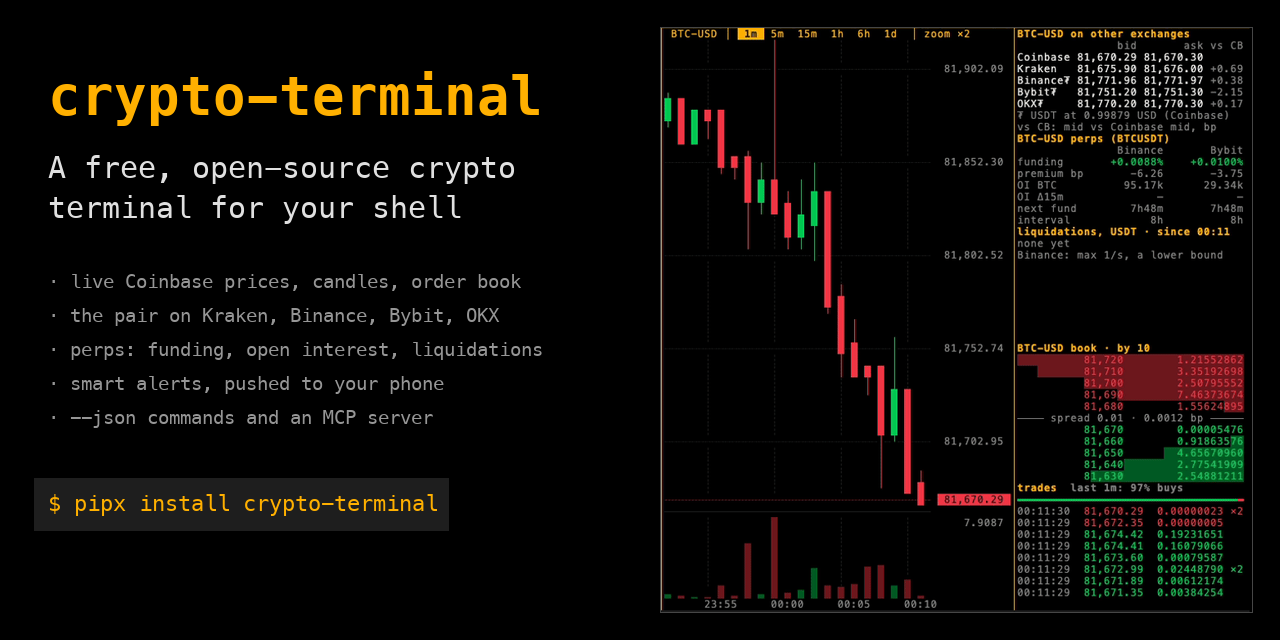
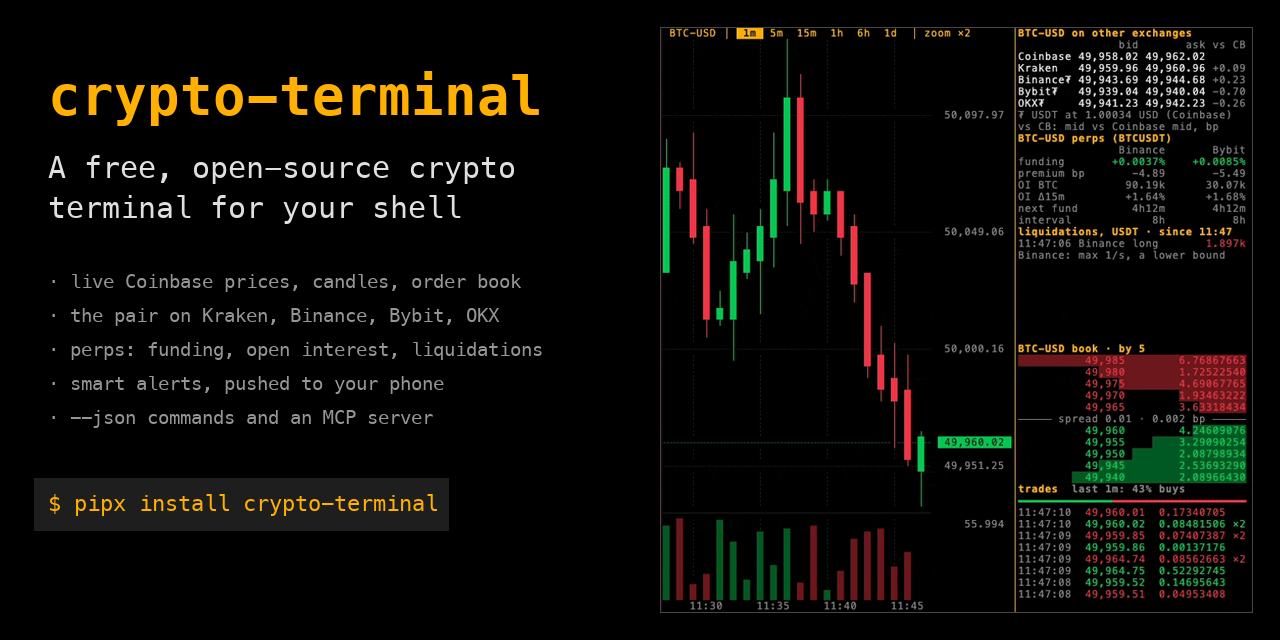
Record the demo, preview and README examples on made-up data
Coinbase's Market Data Terms (and the other exchanges' terms) don't allow
showing their market data, or charts made from it, to third parties. The
README GIF, social preview and sample outputs showed real prices.

docs/demo_offline.py runs the app on a seeded random walk (BTC near
50,000), fed through the real book/venue/perp parsers in each exchange's
message format, with sockets blocked so nothing touches the network; the
title bar says DEMO DATA. demo.tape now records that. The README examples
use matching made-up numbers and say so.

Changed region(s): [[0.5, 0.0312, 1.0, 0.9375], [0.5, 0.8125, 0.75, 0.9688]]

diff --git a/docs/demo_offline.py b/docs/demo_offline.py
@@ -1,0 +1,270 @@
+"""Run the terminal on made-up data, for recording the README demo (`vhs docs/demo.tape`).
+
+Exchange data terms don't allow showing their market data to other people, so the public GIF and screenshots use
+this instead: a seeded random walk per pair, fed through the app's real parsers in each exchange's message format.
+Nothing here touches the network (sockets refuse to connect). Not part of the package.
+"""
+
+import asyncio
+import random
+import socket
+import time
+from datetime import datetime, timezone
+
+from textual.widgets import Static
+
+
+BLOCKED = []  # connection attempts refused (there should be none)
+
+
+def no_network(*args, **kwargs):
+    BLOCKED.append(args[1:] or kwargs)
+    raise RuntimeError("demo: network is blocked")
+
+
+socket.socket.connect = socket.socket.connect_ex = no_network  # before anything can open a connection
+socket.create_connection = no_network
+
+from crypto_terminal import app as app_module  # noqa: E402
+from crypto_terminal.book import BookFeed  # noqa: E402
+from crypto_terminal.derivs import OI_WINDOW, BinancePerp, BybitPerp  # noqa: E402
+from crypto_terminal.feed import Tick  # noqa: E402
+from crypto_terminal.history import MAX_CANDLES, Candle, Product  # noqa: E402
+from crypto_terminal.venues import OKX, Binance, Bybit, Kraken  # noqa: E402
+
+rng = random.Random(7)
+# base: (made-up USD price, price step, coin name)
+COINS = {"BTC": (50_000.0, 0.01, "Bitcoin"), "ETH": (2_600.0, 0.01, "Ethereum"), "XRP": (0.62, 0.0001, "XRP"),
+         "SOL": (120.0, 0.01, "Solana"), "ADA": (0.45, 0.0001, "Cardano"), "DOGE": (0.12, 0.00001, "Dogecoin"),
+         "USDT": (1.0003, 0.00001, "Tether")}
+EUR, USDT = 0.92, 1.0003
+PRODUCTS = [Product(f"{base}-{quote}", base, quote, name) for base, (_, _, name) in COINS.items()
+            for quote in ("USD", "EUR", "BTC") if base != quote and not (base == "USDT" and quote != "USD")]
+
+
+class Pair:
+    def __init__(self, symbol):
+        base, _, quote = symbol.partition("-")
+        usd, self.step, _ = COINS.get(base, (1.0, 0.0001, base))
+        scale = {"USD": 1, "EUR": EUR, "BTC": 1 / COINS["BTC"][0]}[quote]
+        self.step = self.step if quote != "BTC" else 1e-8
+        self.mid = usd * scale
+        self.vol = 0.000005 if base == "USDT" else 0.0001  # per step
+        self.open_24h = self.mid * (1 + rng.uniform(-0.04, 0.03))
+
+    def move(self):
+        self.mid *= 1 + rng.gauss(0, self.vol)
+        return self.mid
+
+    def round(self, price):
+        return round(round(price / self.step) * self.step, 10)
+
+    def text(self, price):
+        decimals = max(0, len(f"{self.step:.10f}".rstrip("0").split(".")[1]))
+        return f"{self.round(price):.{decimals}f}"
+
+
+PAIRS: dict[str, Pair] = {}
+
+
+def pair(symbol) -> Pair:
+    if symbol not in PAIRS:
+        PAIRS[symbol] = Pair(symbol)
+    return PAIRS[symbol]
+
+
+def usd_mid(symbol) -> float:
+    """Mid in USD (for venues/perps), from the USD pair's walk."""
+    return pair(symbol.split("-")[0] + "-USD").mid
+
+
+async def tick_forever():
+    while True:
+        for p in list(PAIRS.values()):
+            p.move()
+        await asyncio.sleep(0.3)
+
+
+class DemoFeed:
+    def __init__(self, symbols, on_tick, on_status, trade_symbols=(), on_trade=None, **kwargs):
+        self.symbols, self.on_tick, self.on_status, self.last_msg = list(symbols), on_tick, on_status, 0.0
+
+    async def run(self):
+        self.on_status("live")
+        while True:
+            self.last_msg = time.monotonic()
+            for symbol in self.symbols:
+                p = pair(symbol)
+                half = max(p.step, p.mid * 0.00004)
+                self.on_tick(Tick(symbol, p.round(p.mid), p.open_24h, p.round(p.mid - half), p.round(p.mid + half)))
+            await asyncio.sleep(0.3)
+
+
+class DemoBookFeed(BookFeed):
+    async def run(self):
+        p, trade_id = pair(self.symbol), 1_000_000
+        unit = 50_000 / usd_mid(self.symbol)  # sizes: about the same dollar amounts on every pair
+        gap = max(p.step, p.round(p.mid * 0.00002))  # about 0.2 bp between levels
+        offsets = [0]
+        for _ in range(59):
+            offsets.append(offsets[-1] + gap * rng.choice((1, 1, 1, 2, 3)))
+        sizes = {side: [rng.expovariate(1 / 1.2) * unit for _ in offsets] for side in ("bids", "asks")}
+        self.last_msg = time.monotonic()
+        self._status("live")
+        while True:
+            self.last_msg = time.monotonic()
+            best_bid = p.round(p.mid - p.step / 2)
+            for side in sizes.values():
+                for i in range(len(side)):
+                    if rng.random() < 0.15:
+                        side[i] = rng.expovariate(1 / 1.2) * unit
+            self.handle({"type": "snapshot", "product_id": self.symbol,
+                         "bids": [[p.text(best_bid - o), f"{s:.8f}"] for o, s in zip(offsets, sizes["bids"])],
+                         "asks": [[p.text(best_bid + p.step + o), f"{s:.8f}"] for o, s in zip(offsets, sizes["asks"])]})
+            now = datetime.now(timezone.utc).strftime("%Y-%m-%dT%H:%M:%S.%fZ")
+            for _ in range(rng.randint(0, 3)):
+                trade_id += 1
+                buy = rng.random() < 0.55
+                self.handle({"type": "match", "product_id": self.symbol, "trade_id": trade_id, "time": now,
+                             "side": "sell" if buy else "buy", "price": p.text(best_bid + (p.step if buy else 0)),
+                             "size": f"{rng.expovariate(1 / 0.08) * unit:.8f}", "taker_order_id": f"t{trade_id}"})
+            await asyncio.sleep(0.4)
+
+
+def demo_venue(cls, offset_bp, message):
+    class Demo(cls):
+        def __init__(self, symbol, url=None):
+            self.coinbase_symbol = symbol
+            super().__init__(symbol, url)
+
+        async def run(self):
+            if not self.pair:
+                self._status("not listed")
+                return
+            self.last_msg = time.monotonic()
+            self._status("live")
+            while True:
+                self.last_msg = time.monotonic()
+                mid = usd_mid(self.coinbase_symbol)
+                mid = mid * (1 + (offset_bp + rng.gauss(0, 0.4)) / 10_000) / (USDT if self.USD_IN_STABLE else 1)
+                spread = mid * 0.00001
+                self.handle(message(self.pair, f"{mid - spread:.2f}", f"{mid + spread:.2f}"))
+                await asyncio.sleep(0.5)
+    Demo.NAME = cls.NAME
+    return Demo
+
+
+VENUES = (
+    demo_venue(Kraken, 0.6, lambda s, b, a: {"channel": "ticker",
+                                            "data": [{"symbol": s, "bid": float(b), "ask": float(a)}]}),
+    demo_venue(Binance, 0.8, lambda s, b, a: {"s": s, "b": b, "a": a}),
+    demo_venue(Bybit, 0.3, lambda s, b, a: {"topic": f"orderbook.1.{s}", "type": "snapshot",
+                                           "data": {"b": [[b, "1"]], "a": [[a, "1"]]}}),
+    demo_venue(OKX, 0.2, lambda s, b, a: {"arg": {"instId": s}, "data": [{"bids": [[b, "1"]], "asks": [[a, "1"]]}]}),
+)
+
+
+def demo_perp(cls, oi_coins):
+    class Demo(cls):
+        async def run(self):
+            if not self.pair:
+                self._status("no USDT perp")
+                return
+            self.last_msg = time.monotonic()
+            self._status("live")
+            self.interval = 8
+            oi = oi_coins * 50_000 / usd_mid(self.symbol)
+            self.oi_samples.append((time.monotonic() - OI_WINDOW - 30, oi * 0.985))  # so OI Δ15m shows
+            funding = rng.uniform(0.00002, 0.00009)
+            next_ms = (int(time.time()) // 28_800 + 1) * 28_800_000
+            while True:
+                self.last_msg = time.monotonic()
+                index = usd_mid(self.symbol) / USDT
+                mark = index * (1 - rng.uniform(2, 6) / 10_000)
+                funding += rng.gauss(0, 0.000002)
+                oi *= 1 + rng.gauss(0.0002, 0.0005)
+                self.feed_numbers(mark, index, funding, next_ms, oi)
+                if rng.random() < 0.12:
+                    size = round(rng.expovariate(1 / 0.6) * 50_000 / index, 3) or 0.001
+                    self.feed_liq(int(time.time() * 1000), rng.random() < 0.6, size, mark)
+                await asyncio.sleep(1)
+    return Demo
+
+
+class DemoBinancePerp(demo_perp(BinancePerp, 90_000)):
+    def feed_numbers(self, mark, index, funding, next_ms, oi):
+        self.handle({"e": "markPriceUpdate", "s": self.pair, "p": f"{mark:.2f}", "i": f"{index:.2f}",
+                     "r": f"{funding:.8f}", "T": next_ms})
+        self.add_oi(oi)  # Binance's open interest comes from a REST poll in the real feed
+
+    def feed_liq(self, ms, long, size, price):
+        self.handle({"e": "forceOrder", "o": {"s": self.pair, "X": "FILLED", "T": ms, "S": "SELL" if long else "BUY",
+                                              "z": f"{size}", "ap": f"{price:.2f}"}})
+
+
+class DemoBybitPerp(demo_perp(BybitPerp, 30_000)):
+    def feed_numbers(self, mark, index, funding, next_ms, oi):
+        self.handle({"topic": f"tickers.{self.pair}", "type": "snapshot",
+                     "data": {"markPrice": f"{mark:.2f}", "indexPrice": f"{index:.2f}", "fundingIntervalHour": "8",
+                              "singleOpenInterest": f"{oi:.3f}", "fundingRate": f"{funding:.8f}",
+                              "nextFundingTime": str(next_ms)}})
+
+    def feed_liq(self, ms, long, size, price):
+        self.handle({"topic": f"allLiquidation.{self.pair}",
+                     "data": [{"s": self.pair, "T": ms, "S": "Buy" if long else "Sell", "v": f"{size}",
+                               "p": f"{price:.2f}"}]})
+
+
+async def fake_products(client):
+    return PRODUCTS
+
+
+async def fake_exists(client, symbol):
+    return any(p.id == symbol for p in PRODUCTS)
+
+
+async def fake_candles(client, symbol, granularity):
+    """A random walk that ends at the pair's current price, so the live bar carries on from it."""
+    p, walk = pair(symbol), random.Random(f"{symbol}{granularity}")
+    vol = p.vol * (granularity / 0.3) ** 0.5 * 0.35
+    closes = [p.mid]
+    for _ in range(MAX_CANDLES - 1):
+        closes.append(closes[-1] / (1 + walk.gauss(0, vol)))
+    closes.reverse()
+    now = time.time()
+    start = now - now % granularity - (MAX_CANDLES - 1) * granularity
+    candles, prev = [], closes[0]
+    for i, close in enumerate(closes):
+        high = max(prev, close) * (1 + abs(walk.gauss(0, vol / 2)))
+        low = min(prev, close) * (1 - abs(walk.gauss(0, vol / 2)))
+        volume = walk.uniform(5, 60) * 50_000 / usd_mid(symbol)
+        candles.append(Candle(start + i * granularity, prev, high, low, close, volume))
+        prev = close
+    return candles
+
+
+async def no_push(client, url, message):
+    return None
+
+
+class DemoApp(app_module.TerminalApp):
+    def compose(self):
+        for widget in super().compose():
+            if getattr(widget, "id", None) == "title":
+                widget = Static("CRYPTO TERMINAL · DEMO DATA (made up, not a real market) · [1-6] [ ] timeframe · "
+                                "[f] view · [b] book [g] group · [x] exchanges [d] perps · [/] command",
+                                id="title", markup=False)
+            yield widget
+
+    def on_mount(self):
+        asyncio.get_running_loop().create_task(tick_forever())
+
+
+for name, value in {"Feed": DemoFeed, "BookFeed": DemoBookFeed, "VENUES": VENUES,
+                    "PERPS": (DemoBinancePerp, DemoBybitPerp), "fetch_products": fake_products,
+                    "product_exists": fake_exists, "fetch_candles": fake_candles, "push": no_push,
+                    "desktop_notify": lambda title, message: None}.items():
+    setattr(app_module, name, value)
+
+if __name__ == "__main__":
+    DemoApp().run()

diff --git a/README.md b/README.md
@@ -4,6 +4,8 @@ A free, open-source crypto terminal that runs in your shell. Live spot prices st
 
 ![Crypto terminal demo: live watchlist, candles, order book and trade tape, the pair on other exchanges, perps funding and open interest, price grouping, indicators, coin search, a watch alert and the three views](https://raw.githubusercontent.com/owen-alderson/crypto-terminal/main/docs/demo.gif)
 
+*Demo recorded with made-up data ([`docs/demo_offline.py`](docs/demo_offline.py)).*
+
 [![PyPI](https://img.shields.io/pypi/v/crypto-terminal?color=ffb000)](https://pypi.org/project/crypto-terminal/) ![Textual](https://img.shields.io/badge/built%20with-Textual-ffb000) ![Coinbase](https://img.shields.io/badge/data-Coinbase%20Exchange-0052FF)
 
 ## Install
@@ -113,35 +115,35 @@ Each alert prints one line to stdout, so `crypto-terminal watch >> ~/crypto-aler
 
 ## Scripts and Claude
 
-One-shot snapshots, from the same feeds and checks as the terminal's panels:
+One-shot snapshots, from the same feeds and checks as the terminal's panels (example output, made-up numbers):
 
 ```console
 $ crypto-terminal price BTC-USD ETH-USD
-BTC-USD         81,445.36  +0.51% 24h  bid 81,445.36 · ask 81,445.37 · spread 0.0012 bp
-ETH-USD          2,416.33  +0.56% 24h  bid 2,416.32 · ask 2,416.33 · spread 0.041 bp
+BTC-USD         49,958.17  +1.67% 24h  bid 49,958.16 · ask 49,958.17 · spread 0.0020 bp
+ETH-USD          2,594.13  +2.86% 24h  bid 2,594.12 · ask 2,594.13 · spread 0.039 bp
 
 $ crypto-terminal book BTC-USD --depth 3
-BTC-USD book on Coinbase · grouped by 10 · spread 0.0012 bp
-  ask 81,470.00  2.01535224
-  ask 81,460.00  3.29623002
-  ask 81,450.00  0.47487558
-  ─── best bid 81,445.36 · ask 81,445.37
-  bid 81,440.00  0.31974371
-  bid 81,430.00  3.02482944
-  bid 81,420.00  3.43443475
+BTC-USD book on Coinbase · grouped by 10 · spread 0.0020 bp
+  ask 49,980.00  2.35565378
+  ask 49,970.00  1.78705384
+  ask 49,960.00  4.10522907
+  ─── best bid 49,958.16 · ask 49,958.17
+  bid 49,950.00  4.29021000
+  bid 49,940.00  11.04277318
+  bid 49,930.00  9.74892602
 
 $ crypto-terminal venues BTC-USD
-BTC-USD on other exchanges · Coinbase bid 81,445.36 · ask 81,445.37
-  Kraken   bid 81,449.8 · ask 81,449.9 USD  +0.55 bp vs Coinbase
-  Binance  bid 81,559.85 · ask 81,559.86 USDT  +0.79 bp vs Coinbase
-  Bybit    bid 81,555.2 · ask 81,555.3 USDT  +0.22 bp vs Coinbase
-  OKX      bid 81,555.1 · ask 81,555.2 USDT  +0.21 bp vs Coinbase
-  USDT prices converted at 0.998675 USD (Coinbase USDT-USD mid)
+BTC-USD on other exchanges · Coinbase bid 49,958.16 · ask 49,958.17
+  Kraken   bid 49,962.1 · ask 49,962.2 USD  +0.80 bp vs Coinbase
+  Binance  bid 49,946.41 · ask 49,946.42 USDT  +1.05 bp vs Coinbase
+  Bybit    bid 49,942.6 · ask 49,942.7 USDT  +0.29 bp vs Coinbase
+  OKX      bid 49,941.9 · ask 49,942.0 USDT  +0.15 bp vs Coinbase
+  USDT prices converted at 1.00034 USD (Coinbase USDT-USD mid)
 
 $ crypto-terminal perps BTC-USD
 BTC-USD perpetual futures (BTCUSDT, not spot)
-  Binance  funding +0.0028% (next 2026-10-18T00:00:00+00:00 every 8h) · premium -5.03 bp · OI 93,764.384 BTC
-  Bybit    funding +0.0066% (next 2026-10-18T00:00:00+00:00 every 8h) · premium -4.35 bp · OI 29,605.919 BTC
+  Binance  funding +0.0037% (next 2026-11-01T00:00:00+00:00 every 8h) · premium -4.89 bp · OI 90,187.512 BTC
+  Bybit    funding +0.0085% (next 2026-11-01T00:00:00+00:00 every 8h) · premium -5.49 bp · OI 30,071.448 BTC
 ```
 
 Add `--json` to any of them for scripts and pipes: `crypto-terminal price BTC-USD --json | jq '.[0].price'`. `book` takes `--group` (a price step: `--group 100` for $100 on BTC; it lists the valid steps if you pick another) and `--depth`. Grouped asks round up and bids round down, as in the terminal, so a level never looks better than what's on offer. Prices print with every decimal the exchange sent. `venues` and `perps` open those exchanges' streams and wait until each has answered (usually a few seconds, at most 15), and read Coinbase while the streams are still open, so both sides of a comparison are from the same moment; one that hasn't answered says `no data within 15s` instead of showing an old or made-up number. A failed lookup (unknown pair, network down) prints why and exits 1.
